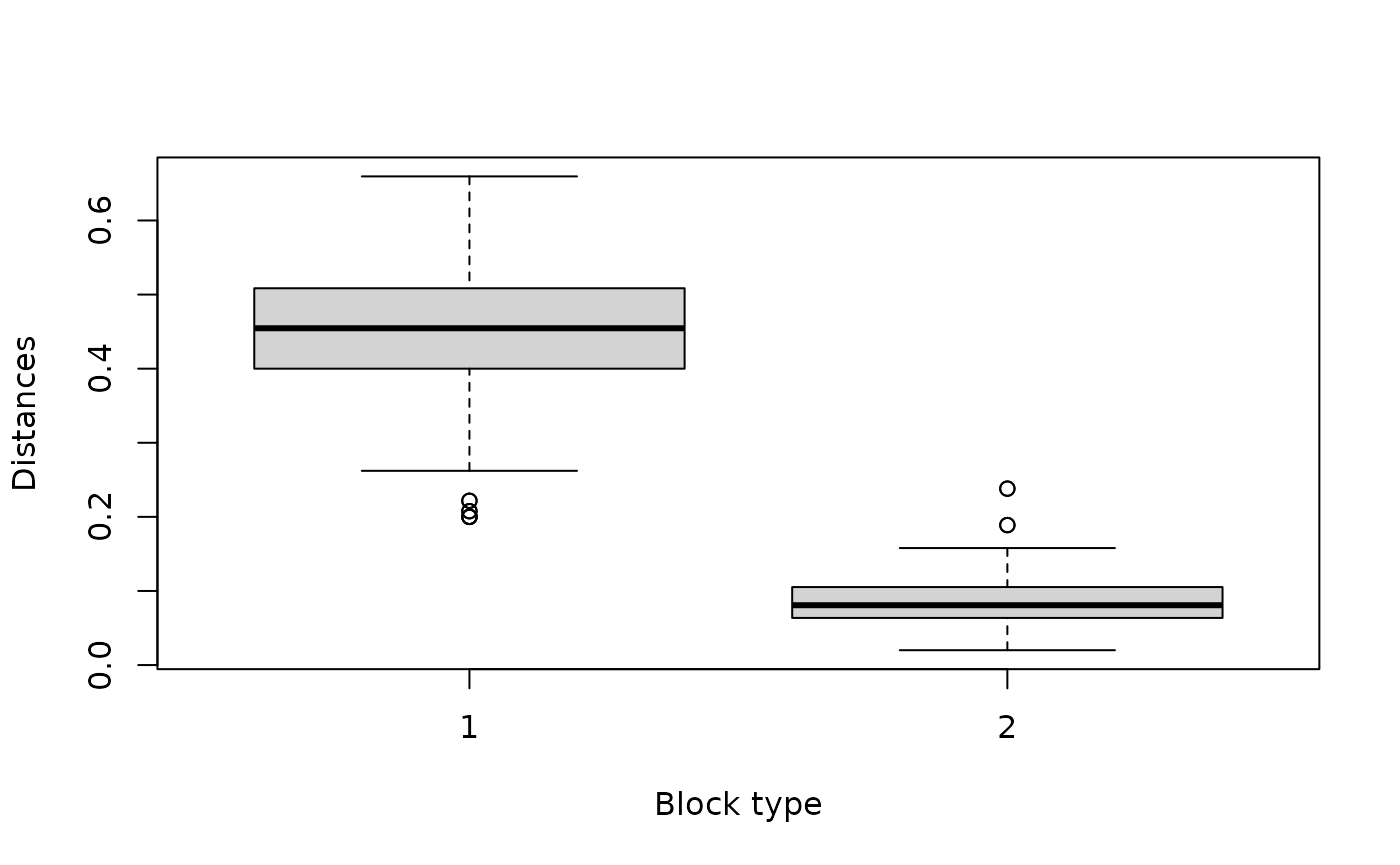
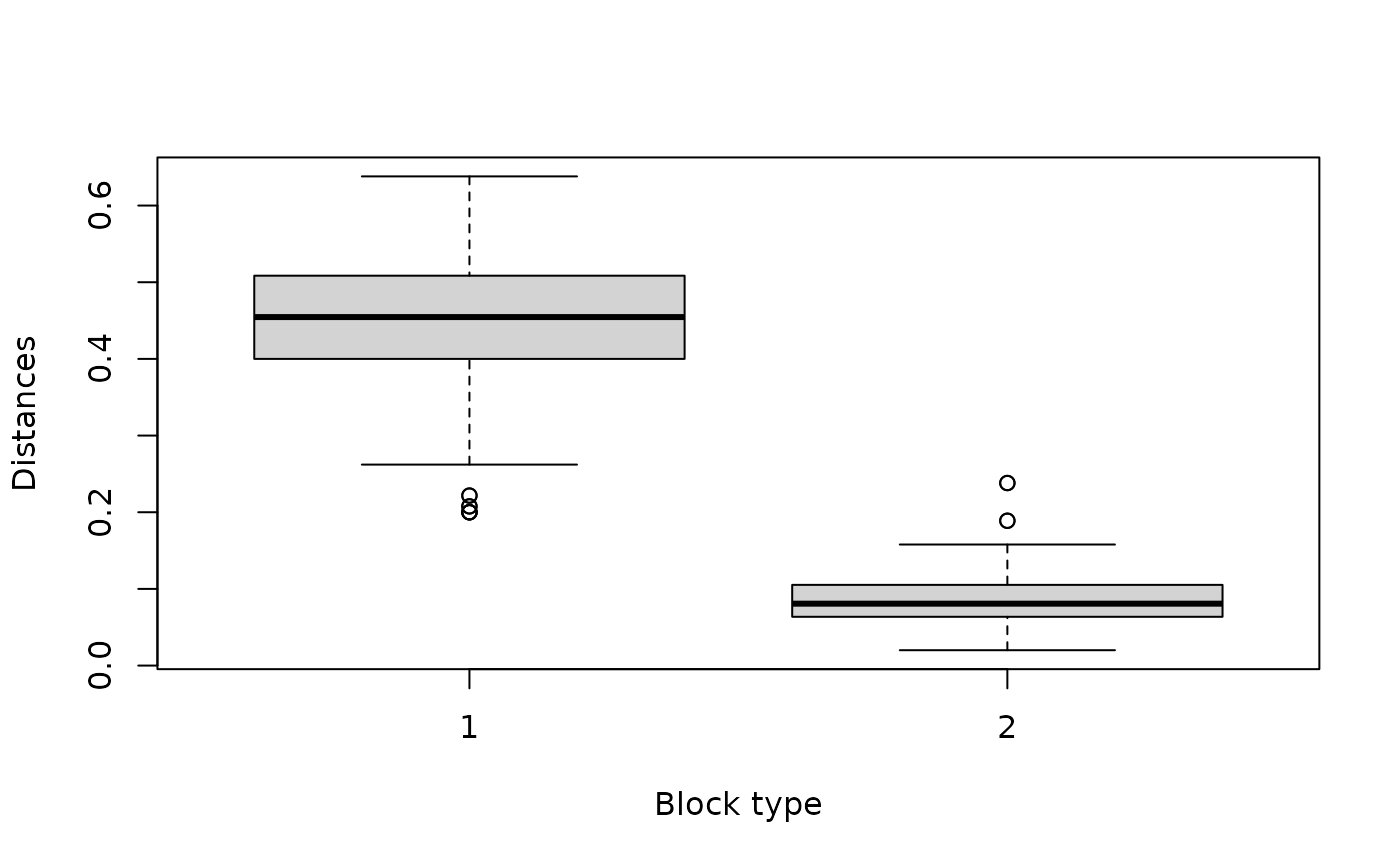
Deploying to gh-pages from @ ncn-foreigners/blocking@eacfbba67d13bda239a79fa612942517e261f442 🚀

diff --git a/index.html b/index.html
@@ -81,6 +81,8 @@
 <p>Currently supports the following R packages that binds to specific ANN algorithms</p>
 <ul>
 <li>
+<a href="https://cran.r-project.org/package=rnndescent" class="external-link">rnndescent</a> (default),</li>
+<li>
 <a href="https://cran.r-project.org/package=RcppHNSW" class="external-link">RcppHNSW</a>,</li>
 <li>
 <a href="https://cran.r-project.org/package=RcppAnnoy" class="external-link">RcppAnnoy</a>,</li>
@@ -147,13 +149,10 @@
 <p>Deduplication using blocking</p>
 <div class="sourceCode" id="cb4"><pre class="downlit sourceCode r">
 <code class="sourceCode R"><span><span class="va">blocking_result</span> <span class="op">&lt;-</span> <span class="fu"><a href="reference/blocking.html">blocking</a></span><span class="op">(</span>x <span class="op">=</span> <span class="va">df_example</span><span class="op">$</span><span class="va">txt</span><span class="op">)</span></span>
-<span><span class="co">#&gt; 'as(&lt;dgTMatrix&gt;, "dgCMatrix")' is deprecated.</span></span>
-<span><span class="co">#&gt; Use 'as(., "CsparseMatrix")' instead.</span></span>
-<span><span class="co">#&gt; See help("Deprecated") and help("Matrix-deprecated").</span></span>
 <span><span class="co">## data frame with indices and block </span></span>
 <span><span class="va">blocking_result</span></span>
 <span><span class="co">#&gt; ========================================================</span></span>
-<span><span class="co">#&gt; Blocking based on the hnsw method.</span></span>
+<span><span class="co">#&gt; Blocking based on the nnd method.</span></span>
 <span><span class="co">#&gt; Number of blocks: 2.</span></span>
 <span><span class="co">#&gt; Number of columns used for blocking: 28.</span></span>
 <span><span class="co">#&gt; Reduction ratio: 0.5714.</span></span>
@@ -164,16 +163,16 @@
 <p>Table with blocking</p>
 <div class="sourceCode" id="cb5"><pre class="downlit sourceCode r">
 <code class="sourceCode R"><span><span class="va">blocking_result</span><span class="op">$</span><span class="va">result</span></span>
-<span><span class="co">#&gt;        x     y block</span></span>
-<span><span class="co">#&gt;    &lt;int&gt; &lt;int&gt; &lt;num&gt;</span></span>
-<span><span class="co">#&gt; 1:     1     2     1</span></span>
-<span><span class="co">#&gt; 2:     2     1     1</span></span>
-<span><span class="co">#&gt; 3:     2     3     1</span></span>
-<span><span class="co">#&gt; 4:     2     4     1</span></span>
-<span><span class="co">#&gt; 5:     5     6     2</span></span>
-<span><span class="co">#&gt; 6:     5     7     2</span></span>
-<span><span class="co">#&gt; 7:     5     8     2</span></span>
-<span><span class="co">#&gt; 8:     6     5     2</span></span></code></pre></div>
+<span><span class="co">#&gt;        x     y block       dist</span></span>
+<span><span class="co">#&gt;    &lt;int&gt; &lt;int&gt; &lt;num&gt;      &lt;num&gt;</span></span>
+<span><span class="co">#&gt; 1:     1     2     1 0.10000005</span></span>
+<span><span class="co">#&gt; 2:     1     3     1 0.14188367</span></span>
+<span><span class="co">#&gt; 3:     1     4     1 0.28286284</span></span>
+<span><span class="co">#&gt; 4:     2     1     1 0.10000005</span></span>
+<span><span class="co">#&gt; 5:     5     6     2 0.08333336</span></span>
+<span><span class="co">#&gt; 6:     5     7     2 0.13397458</span></span>
+<span><span class="co">#&gt; 7:     5     8     2 0.27831215</span></span>
+<span><span class="co">#&gt; 8:     6     5     2 0.08333336</span></span></code></pre></div>
 <p>Deduplication followed by the <code>reclin2</code> package</p>
 <div class="sourceCode" id="cb6"><pre class="downlit sourceCode r">
 <code class="sourceCode R"><span><span class="fu"><a href="reference/pair_ann.html">pair_ann</a></span><span class="op">(</span>x <span class="op">=</span> <span class="va">df_example</span>, on <span class="op">=</span> <span class="st">"txt"</span><span class="op">)</span> <span class="op">|&gt;</span></span>

diff --git a/reference/pair_ann.html b/reference/pair_ann.html
@@ -149,7 +149,26 @@
 <span class="r-in"><span><span class="fu"><a href="https://rdrr.io/pkg/reclin2/man/score_simple.html" class="external-link">score_simple</a></span><span class="op">(</span><span class="st">"score"</span>, on <span class="op">=</span> <span class="st">"txt"</span><span class="op">)</span> <span class="op">|&gt;</span></span></span>
 <span class="r-in"><span><span class="fu"><a href="https://rdrr.io/pkg/reclin2/man/select_threshold.html" class="external-link">select_threshold</a></span><span class="op">(</span><span class="st">"threshold"</span>, score <span class="op">=</span> <span class="st">"score"</span>, threshold <span class="op">=</span> <span class="fl">0.75</span><span class="op">)</span> <span class="op">|&gt;</span></span></span>
 <span class="r-in"><span><span class="fu"><a href="https://rdrr.io/pkg/reclin2/man/link.html" class="external-link">link</a></span><span class="op">(</span>selection <span class="op">=</span> <span class="st">"threshold"</span><span class="op">)</span></span></span>
-<span class="r-err co"><span class="r-pr">#&gt;</span> <span class="error">Error in check_k(k, ncol(data)):</span> k must be &lt;= 6</span>
+<span class="r-out co"><span class="r-pr">#&gt;</span>   Total number of pairs: 5 pairs</span>
+<span class="r-out co"><span class="r-pr">#&gt;</span> </span>
+<span class="r-out co"><span class="r-pr">#&gt;</span>    .y .x id.x lastname.x firstname.x  address.x sex.x postcode.x</span>
+<span class="r-out co"><span class="r-pr">#&gt;</span> 1:  1  2    2      Smith      George 12 Mainstr     M    1234 AB</span>
+<span class="r-out co"><span class="r-pr">#&gt;</span> 2:  2  3    3    Johnson        Anna 61 Mainstr     F    1234 AB</span>
+<span class="r-out co"><span class="r-pr">#&gt;</span> 3:  3  4    4    Johnson     Charles 61 Mainstr     M    1234 AB</span>
+<span class="r-out co"><span class="r-pr">#&gt;</span> 4:  4  6    6   Schwartz         Ben  1 Eaststr     M    6789 XY</span>
+<span class="r-out co"><span class="r-pr">#&gt;</span> 5:  5  6    6   Schwartz         Ben  1 Eaststr     M    6789 XY</span>
+<span class="r-out co"><span class="r-pr">#&gt;</span>                             txt.x id.y lastname.y firstname.y     address.y</span>
+<span class="r-out co"><span class="r-pr">#&gt;</span> 1:    georgesmith12mainstrm1234ab    2      Smith      Gearge 12 Mainstreet</span>
+<span class="r-out co"><span class="r-pr">#&gt;</span> 2:    annajohnson61mainstrf1234ab    3     Jonson          A. 61 Mainstreet</span>
+<span class="r-out co"><span class="r-pr">#&gt;</span> 3: charlesjohnson61mainstrm1234ab    4    Johnson     Charles    61 Mainstr</span>
+<span class="r-out co"><span class="r-pr">#&gt;</span> 4:     benschwartz1eaststrm6789xy    6   Schwartz         Ben        1 Main</span>
+<span class="r-out co"><span class="r-pr">#&gt;</span> 5:     benschwartz1eaststrm6789xy    7   Schwartz        Anna     1 Eaststr</span>
+<span class="r-out co"><span class="r-pr">#&gt;</span>    sex.y postcode.y                           txt.y</span>
+<span class="r-out co"><span class="r-pr">#&gt;</span> 1:  &lt;NA&gt;    1234 AB geargesmith12mainstreetna1234ab</span>
+<span class="r-out co"><span class="r-pr">#&gt;</span> 2:     F    1234 AB     a.jonson61mainstreetf1234ab</span>
+<span class="r-out co"><span class="r-pr">#&gt;</span> 3:     F    1234 AB  charlesjohnson61mainstrf1234ab</span>
+<span class="r-out co"><span class="r-pr">#&gt;</span> 4:     M    6789 XY         benschwartz1mainm6789xy</span>
+<span class="r-out co"><span class="r-pr">#&gt;</span> 5:     F    6789 XY     annaschwartz1eaststrf6789xy</span>
 <span class="r-in"><span></span></span>
 </code></pre></div>
     </div>

diff --git a/reference/controls_ann.html b/reference/controls_ann.html
@@ -63,9 +63,9 @@
     <h2 id="ref-usage">Usage<a class="anchor" aria-label="anchor" href="#ref-usage"></a></h2>
     <div class="sourceCode"><pre class="sourceCode r"><code><span><span class="fu">controls_ann</span><span class="op">(</span></span>
 <span>  sparse <span class="op">=</span> <span class="cn">FALSE</span>,</span>
-<span>  nnd <span class="op">=</span> <span class="fu"><a href="https://rdrr.io/r/base/list.html" class="external-link">list</a></span><span class="op">(</span>k_build <span class="op">=</span> <span class="fl">2</span>, use_alt_metric <span class="op">=</span> <span class="cn">TRUE</span>, init <span class="op">=</span> <span class="st">"tree"</span>, n_trees <span class="op">=</span> <span class="cn">NULL</span>, leaf_size</span>
-<span>    <span class="op">=</span> <span class="cn">NULL</span>, max_tree_depth <span class="op">=</span> <span class="fl">200</span>, margin <span class="op">=</span> <span class="st">"auto"</span>, n_iters <span class="op">=</span> <span class="cn">NULL</span>, delta <span class="op">=</span> <span class="fl">0.001</span>,</span>
-<span>    max_candidates <span class="op">=</span> <span class="cn">NULL</span>, low_memory <span class="op">=</span> <span class="cn">TRUE</span>, n_search_trees <span class="op">=</span> <span class="fl">1</span>,</span>
+<span>  nnd <span class="op">=</span> <span class="fu"><a href="https://rdrr.io/r/base/list.html" class="external-link">list</a></span><span class="op">(</span>k_build <span class="op">=</span> <span class="fl">30</span>, use_alt_metric <span class="op">=</span> <span class="cn">TRUE</span>, init <span class="op">=</span> <span class="st">"tree"</span>, n_trees <span class="op">=</span> <span class="cn">NULL</span>,</span>
+<span>    leaf_size <span class="op">=</span> <span class="cn">NULL</span>, max_tree_depth <span class="op">=</span> <span class="fl">200</span>, margin <span class="op">=</span> <span class="st">"auto"</span>, n_iters <span class="op">=</span> <span class="cn">NULL</span>, delta <span class="op">=</span></span>
+<span>    <span class="fl">0.001</span>, max_candidates <span class="op">=</span> <span class="cn">NULL</span>, low_memory <span class="op">=</span> <span class="cn">TRUE</span>, n_search_trees <span class="op">=</span> <span class="fl">1</span>,</span>
 <span>    pruning_degree_multiplier <span class="op">=</span> <span class="fl">1.5</span>, diversify_prob <span class="op">=</span> <span class="fl">1</span>, progress <span class="op">=</span> <span class="st">"bar"</span>, obs <span class="op">=</span> <span class="st">"R"</span><span class="op">)</span>,</span>
 <span>  hnsw <span class="op">=</span> <span class="fu"><a href="https://rdrr.io/r/base/list.html" class="external-link">list</a></span><span class="op">(</span>M <span class="op">=</span> <span class="fl">25</span>, ef_c <span class="op">=</span> <span class="fl">200</span>, ef_s <span class="op">=</span> <span class="fl">200</span>, grain_size <span class="op">=</span> <span class="fl">1</span>, byrow <span class="op">=</span> <span class="cn">TRUE</span><span class="op">)</span>,</span>
 <span>  lsh <span class="op">=</span> <span class="fu"><a href="https://rdrr.io/r/base/list.html" class="external-link">list</a></span><span class="op">(</span>bucket_size <span class="op">=</span> <span class="fl">500</span>, hash_width <span class="op">=</span> <span class="fl">10</span>, num_probes <span class="op">=</span> <span class="fl">0</span>, projections <span class="op">=</span> <span class="fl">10</span>, tables</span>

diff --git a/articles/v1-deduplication.html b/articles/v1-deduplication.html
@@ -156,13 +156,13 @@ of 15 elements.</li>
 <code class="sourceCode R"><span><span class="va">df_blocks</span></span>
 <span><span class="co">#&gt; ========================================================</span></span>
 <span><span class="co">#&gt; Blocking based on the nnd method.</span></span>
-<span><span class="co">#&gt; Number of blocks: 133.</span></span>
+<span><span class="co">#&gt; Number of blocks: 134.</span></span>
 <span><span class="co">#&gt; Number of columns used for blocking: 429.</span></span>
-<span><span class="co">#&gt; Reduction ratio: 0.9915.</span></span>
+<span><span class="co">#&gt; Reduction ratio: 0.9917.</span></span>
 <span><span class="co">#&gt; ========================================================</span></span>
 <span><span class="co">#&gt; Distribution of the size of the blocks:</span></span>
 <span><span class="co">#&gt;  2  3  4  5  6  7  8  9 10 11 12 17 </span></span>
-<span><span class="co">#&gt; 47 34 22  9  7  5  3  1  1  2  1  1</span></span></code></pre></div>
+<span><span class="co">#&gt; 46 35 23 11  6  5  1  3  1  1  1  1</span></span></code></pre></div>
 <p>Structure of the object is as follows:</p>
 <ul>
 <li>

diff --git a/news/index.html b/news/index.html
@@ -66,6 +66,8 @@
 <li>first vignette added.</li>
 <li>evaluation with standard metrics (recall, fpr etc) added, works with vector for deduplication.</li>
 <li>added saving index for hnsw and annoy</li>
+<li>
+<code>rnndescend</code> support added.</li>
 </ol></div>
   </main></div>
 
